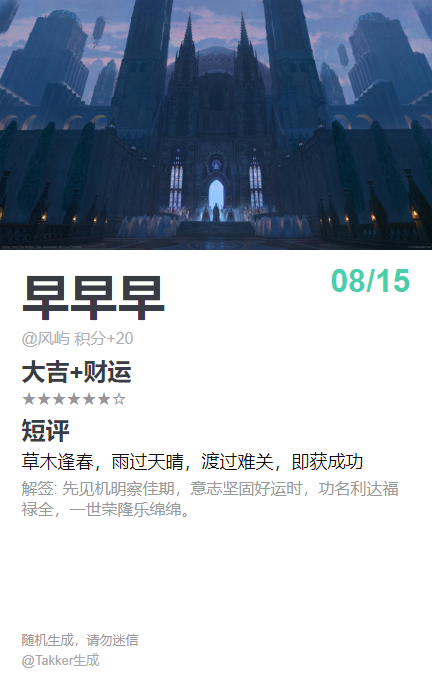
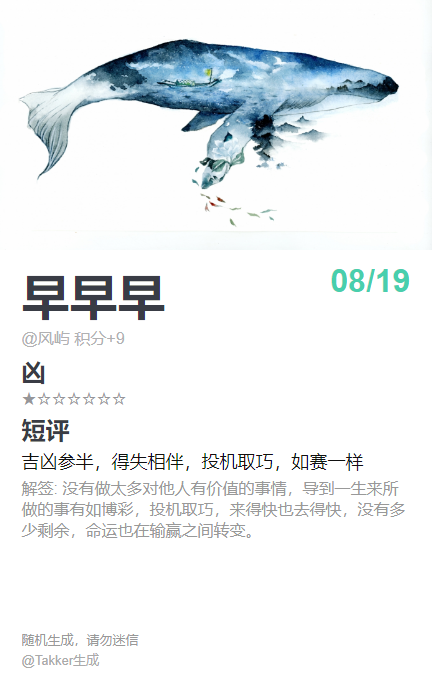
v0.0.8

diff --git a/resources/templates/check_in/temp/card-2330705135.html b/resources/templates/check_in/temp/card-2330705135.html
@@ -13,20 +13,20 @@
 
 <body>
     <div id="card">
-        <div class="image"><img src="https://file.alapi.cn/image/comic/122514-15234207140623.jpg" alt="图片丢失" />
+        <div class="image"><img src="https://file.alapi.cn/image/comic/154330-1523605410cbfb.jpg" alt="图片丢失" />
         </div>
         <div class="stats">
             <div class="stats-container">
-                <span class="day-time">08/15</span>
+                <span class="day-time">08/19</span>
                 <span class="time">早早早</span>
-                <p>@风屿 积分+20</p>
+                <p>@风屿 积分+9</p>
 
                 <div class="stick">
-                    <strong>大吉+财运</strong>
-                    <span>★★★★★★☆</span>
+                    <strong>凶</strong>
+                    <span>★☆☆☆☆☆☆</span>
                     <strong>短评</strong>
-                    <div class="comment">草木逢春，雨过天晴，渡过难关，即获成功</div>
-                    <div class="resolve">解签: 先见机明察佳期，意志坚固好运时，功名利达福禄全，一世荣隆乐绵绵。</div>
+                    <div class="comment">吉凶参半，得失相伴，投机取巧，如赛一样</div>
+                    <div class="resolve">解签: 没有做太多对他人有价值的事情，导到一生来所做的事有如博彩，投机取巧，来得快也去得快，没有多少剩余，命运也在输赢之间转变。</div>
                 </div>
                 <div class="dnt">随机生成，请勿迷信</div>
                 <div class="copyright">@Takker生成</div>

diff --git a/README.md b/README.md
@@ -156,6 +156,14 @@ TEMP_PATH = Path("resources/img/temp/")
 
 ## 更新记录
 
+### 2021.8.19
+* 修了一整天的服务器，现在bot内部调用的我自建的API都正常了
+* 修复插件管理系统禁用插件时的bug
+* 修复权限和插件管理的-u -g不能同时管理多个会话的bug
+* 修复pixiv美图功能若原画失效导致抛出Exception的bug
+* 修复公告插件无法发送多行公告
+* 更新部分依赖
+
 ### 2021/8/18
 * 点歌、摸头GIF、狂亲GIF
 * Legacy插件重构完成
